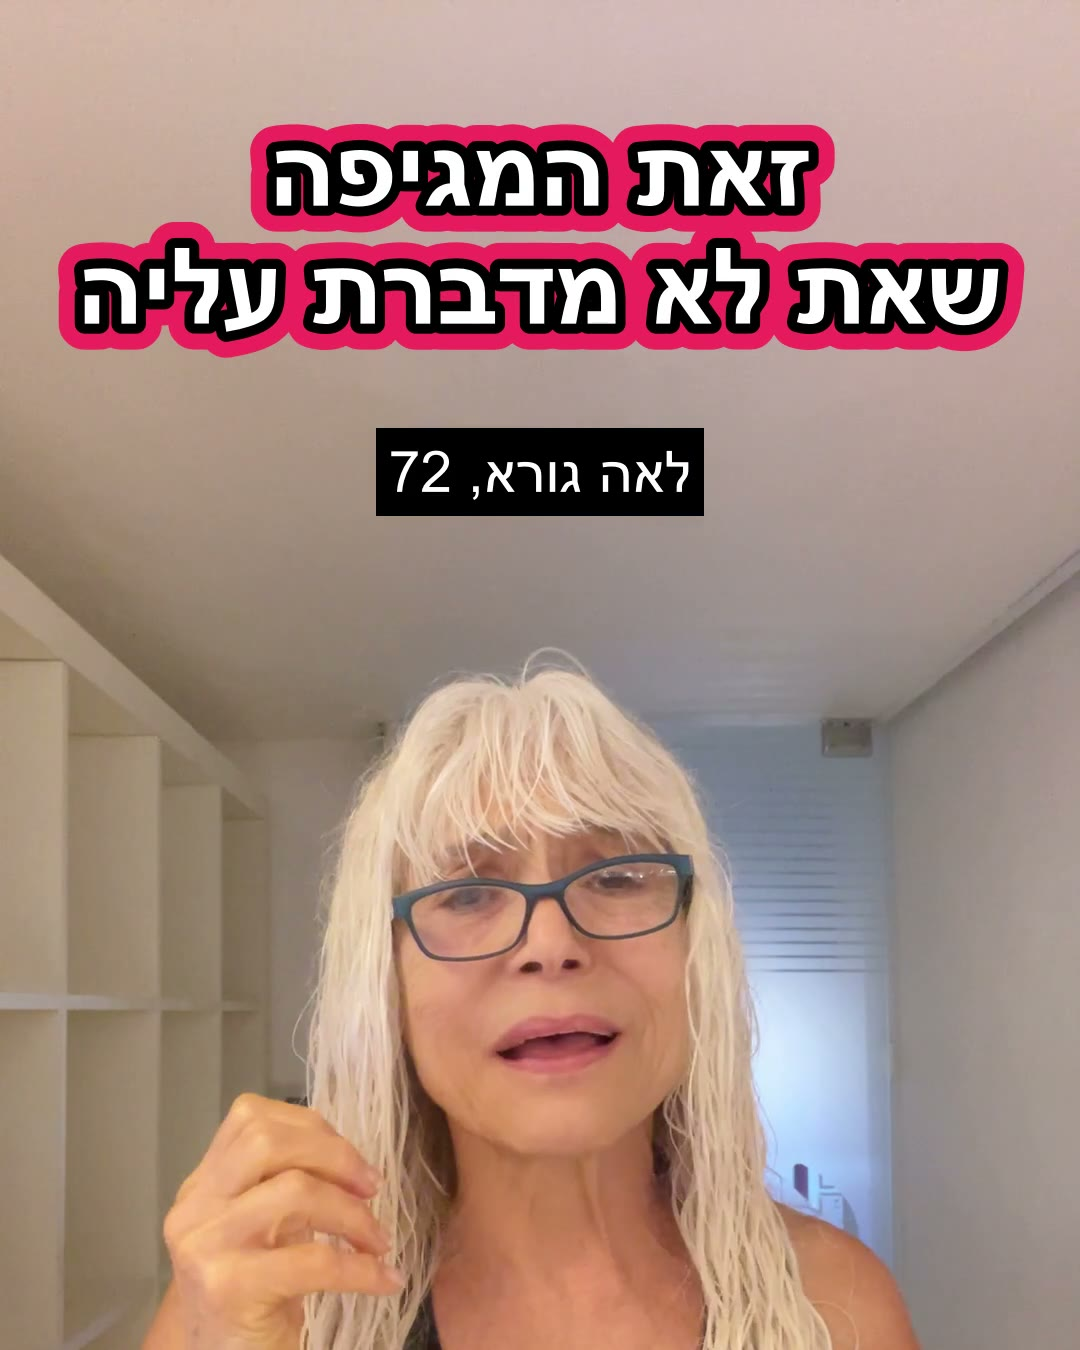
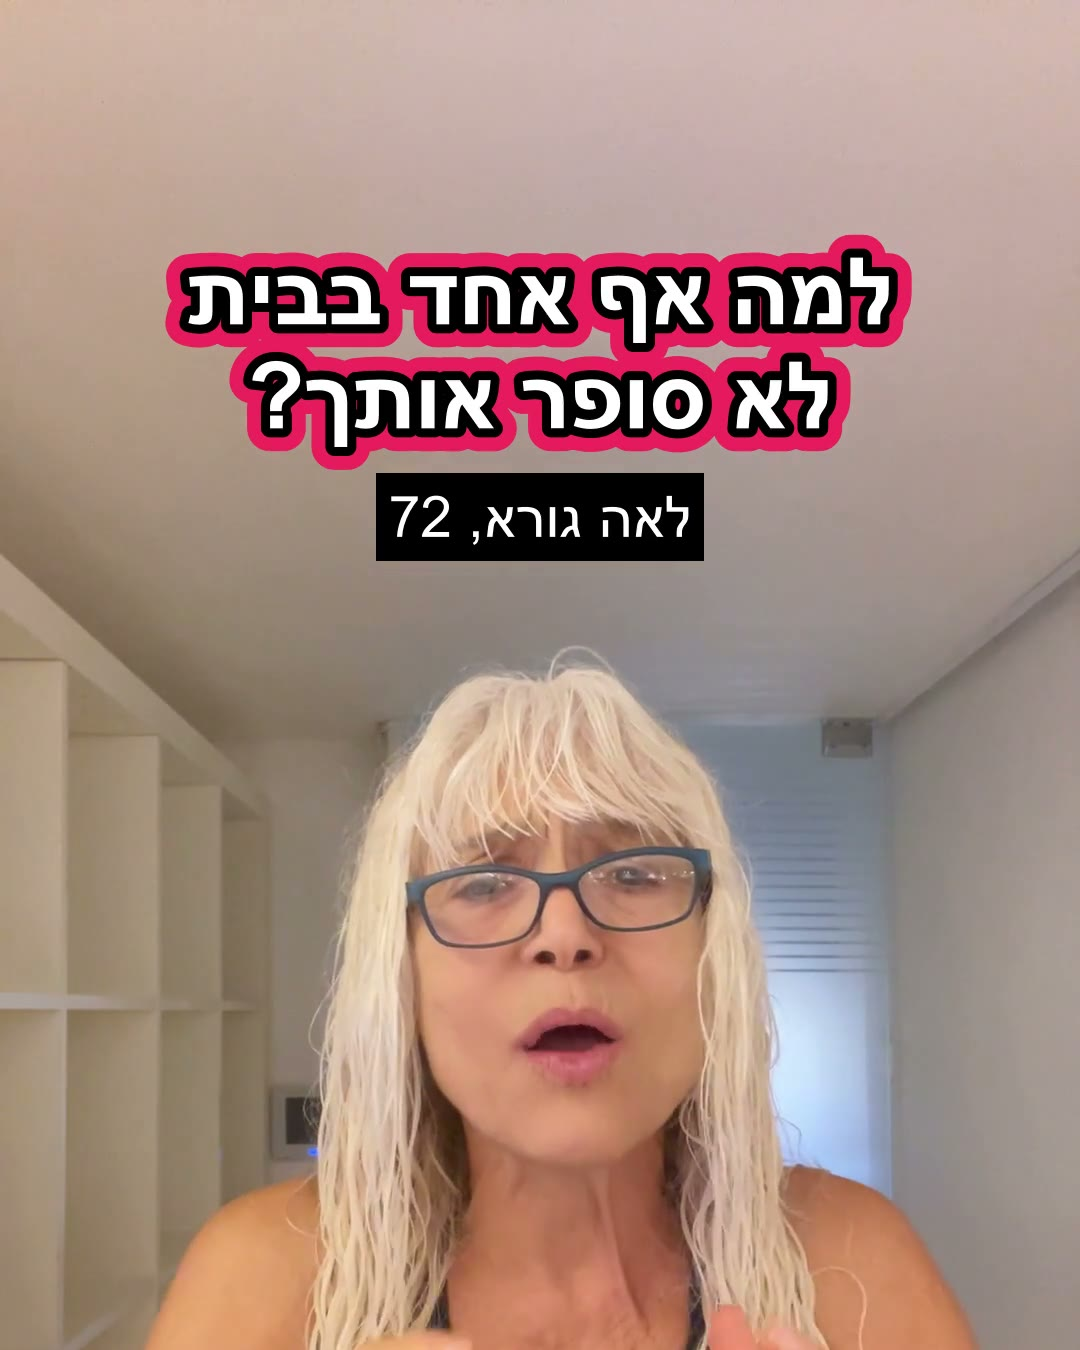
הסרת התמונה הישנה 'זאת המגיפה' מתצוגת הקישור לדף הסדנה ומכפתור הביו (במקומה: הכותרת 'למה אף אחד בבית לא סופר אותך?') - לאה 19.10

diff --git a/today.html b/today.html
@@ -18,7 +18,7 @@ if (location.search.indexOf('_scan=1') === -1) {
 }
 </script>
 </head><body><div class="w">
-<a class="c k" href="https://guralea.com/workshop.html?t=gvulot"><img src="https://guralea.com/images/workshop-video-2026-10-18-poster.jpg" alt=""><div class="t">הסדנה "הגיל הוא לא הסיפור" מתחילה ב-26.11<span>פרטים והרשמה לסדנה</span></div></a>
+<a class="c k" href="https://guralea.com/workshop.html?t=gvulot"><img src="https://guralea.com/images/workshop-video-2026-10-18-poster.jpg?v=2" alt=""><div class="t">הסדנה "הגיל הוא לא הסיפור" מתחילה ב-26.11<span>פרטים והרשמה לסדנה</span></div></a>
 <div id="list" style="display:contents"></div></div>
 <script>
 const DAYS={"2026-10-03":[{"kind":"hagil","title":"איך אור הבוקר עוזר לישון טוב יותר בלילה?","url":"https://guralea.com/blog-post-60.html","img":"https://guralea.com/images/blog-tips/60-v2-ig.jpg"},{"kind":"pilates","title":"שיווי משקל וחשש מנפילה: למה הזהירות מחלישה, ומה באמת מחזק","url":"https://guraleapilates.com/articles/balance/","img":"https://guralea.com/images/pilates/tip-posts/balance.jpg"}],"2026-10-04":[{"kind":"hagil","title":"איך קמים מחדש אחרי ניתוח או מחלה קשה?","url":"https://guralea.com/blog-post-58.html","img":"https://guralea.com/images/blog-tips/58-v2-ig.jpg"},{"kind":"pilates","title":"אחרי החלפת ברך או ירך: למה הרגל עדיין חלשה, ומה מחזיר לה כוח","url":"https://guraleapilates.com/articles/joint-replacement/","img":"https://guralea.com/images/pilates/tip-posts/joint-replacement.jpg"}],"2026-10-05":[{"kind":"hagil","title":"איך שגרה יומית בונה חוסן נפשי?","url":"https://guralea.com/blog-post-65.html","img":"https://guralea.com/images/blog-tips/65-v2-ig.jpg"},{"kind":"pilates","title":"כתף קפואה: איך מזיזים את היד בלי להחמיר את הכאב","url":"https://guraleapilates.com/articles/frozen-shoulder/","img":"https://guralea.com/images/pilates/tip-posts/frozen-shoulder.jpg"}],"2026-10-06":[{"kind":"hagil","title":"איך מגשימים חלום שדחיתם שנים?","url":"https://guralea.com/blog-post-64.html","img":"https://guralea.com/images/blog-tips/64-v2-ig.jpg"},{"kind":"pilates","title":"בקע דיסק: מה מרגיע את הכאב שיורד לרגל, ומה מחמיר אותו","url":"https://guraleapilates.com/articles/herniated-disc/","img":"https://guralea.com/images/pilates/tip-posts/herniated-disc.jpg"}],"2026-10-07":[{"kind":"hagil","title":"מה כדאי לאכול לפני ואחרי אימון אחרי גיל 50?","url":"https://guralea.com/blog-post-59.html","img":"https://guralea.com/images/blog-tips/59-v2-ig.jpg"},{"kind":"pilates","title":"דלקות מפרקים: למה המפרק ננעל, ומה באמת משחרר אותו","url":"https://guraleapilates.com/articles/arthritis/","img":"https://guralea.com/images/pilates/tip-posts/arthritis.jpg"}],"2026-10-08":[{"kind":"hagil","title":"איך מתחילים משהו חדש אחרי גיל 60?","url":"https://guralea.com/blog-post-57.html","img":"https://guralea.com/images/blog-tips/57-v2-ig.jpg"},{"kind":"pilates","title":"הגב מתעגל והכתפיים נופלות קדימה: איך מזדקפים שוב","url":"https://guraleapilates.com/articles/kyphosis/","img":"https://guralea.com/images/pilates/tip-posts/kyphosis.jpg"}],"2026-10-09":[{"kind":"hagil","title":"איך פעילות גופנית עוזרת להוריד לחץ דם?","url":"https://guralea.com/blog-post-56.html","img":"https://guralea.com/images/blog-tips/56-v2-ig.jpg"},{"kind":"pilates","title":"בריחת שתן בשיעול ובצחוק: למה זה קורה ומה באמת עוזר","url":"https://guraleapilates.com/articles/urinary-incontinence/","img":"https://guralea.com/images/pilates/tip-posts/urinary-incontinence.jpg"}],"2026-10-10":[{"kind":"hagil","title":"האם אפשר לבנות שריר גם אחרי גיל 70?","url":"https://guralea.com/blog-post-54.html","img":"https://guralea.com/images/blog-tips/54-v2-ig.jpg"},{"kind":"pilates","title":"\"לא זזתי שנים\": איך מתחילים פילאטיס מכשירים אחרי גיל 60","url":"https://guraleapilates.com/articles/starting-over/","img":"https://guralea.com/images/pilates/tip-posts/starting-over.jpg"}],"2026-10-11":[{"kind":"hagil","title":"למה מתעוררים מוקדם יותר עם הגיל?","url":"https://guralea.com/blog-post-53.html","img":"https://guralea.com/images/blog-tips/53-v2-ig.jpg"},{"kind":"pilates","title":"פיברומיאלגיה: איך לחזור לזוז בלי שהכאב יתלקח","url":"https://guraleapilates.com/articles/fibromyalgia/","img":"https://guralea.com/images/pilates/tip-posts/fibromyalgia.jpg"}],"2026-10-12":[{"kind":"hagil","title":"למה חשוב לאכול יותר סיבים תזונתיים אחרי גיל 50?","url":"https://guralea.com/blog-post-52.html","img":"https://guralea.com/images/blog-tips/52-v2-ig.jpg"},{"kind":"pilates","title":"עקמת: מה אפשר לשפר, ואיך מחזקים את הגב בלי להחמיר","url":"https://guraleapilates.com/articles/scoliosis/","img":"https://guralea.com/images/pilates/tip-posts/scoliosis.jpg"}],"2026-10-13":[{"kind":"hagil","title":"איך בונים שגרת ריצה בבטחה אחרי גיל 50?","url":"https://guralea.com/blog-post-51.html","img":"https://guralea.com/images/blog-tips/51-v2-ig.jpg"},{"kind":"pilates","title":"אחרי שבר: למה הגוף חלש גם כשהעצם כבר התאחתה, ומה מחזיר כוח","url":"https://guraleapilates.com/articles/fractures/","img":"https://guralea.com/images/pilates/tip-posts/fractures.jpg"}],"2026-10-14":[{"kind":"hagil","title":"מה הקשר בין דלקת כרונית בגוף לבין תחושת הזדקנות?","url":"https://guralea.com/blog-post-48.html","img":"https://guralea.com/images/blog-tips/48-v2-ig.jpg"},{"kind":"pilates","title":"אחרי פציעת ספורט: איך חוזרים לזוז בלי להיפצע שוב","url":"https://guraleapilates.com/articles/sports-injuries/","img":"https://guralea.com/images/pilates/tip-posts/sports-injuries.jpg"}],"2026-10-15":[{"kind":"hagil","title":"כמה זמן לוקח לשפר שיווי משקל אחרי גיל 50?","url":"https://guralea.com/blog-post-47.html","img":"https://guralea.com/images/blog-tips/47-v2-ig.jpg"},{"kind":"pilates","title":"סדק בעצם: למה זה כואב דווקא בהליכה, ואיך חוזרים לזוז בבטחה","url":"https://guraleapilates.com/articles/stress-fractures/","img":"https://guralea.com/images/pilates/tip-posts/stress-fractures.jpg"}],"2026-10-16":[{"kind":"hagil","title":"האם צריך להרים משקלים כבדים כדי לראות תוצאות אחרי גיל 50?","url":"https://guralea.com/blog-post-46.html","img":"https://guralea.com/images/blog-tips/46-v2-ig.jpg"},{"kind":"pilates","title":"כאבי גב תחתון: מה באמת עוזר, ומה רק מחמיר","url":"https://guraleapilates.com/articles/low-back-pain/","img":"https://guralea.com/images/pilates/tip-posts/low-back-pain.jpg"}],"2026-10-17":[{"kind":"hagil","title":"האם קפאין משפיע על השינה יותר עם הגיל?","url":"https://guralea.com/blog-post-45.html","img":"https://guralea.com/images/blog-tips/45-v2-ig.jpg"},{"kind":"pilates","title":"כאבי צוואר: למה הוא נתפס, ומה באמת עוזר לשחרר","url":"https://guraleapilates.com/articles/neck-pain/","img":"https://guralea.com/images/pilates/tip-posts/neck-pain.jpg"}],"2026-10-18":[{"kind":"hagil","title":"מה הקשר בין כפות הרגליים לשיווי המשקל?","url":"https://guralea.com/blog-post-55.html","img":"https://guralea.com/images/blog-tips/55-v2-ig.jpg"},{"kind":"pilates","title":"אוסטאופורוזיס: מה באמת מחזק את העצמות, ומה מסכן אותן","url":"https://guraleapilates.com/articles/osteoporosis/","img":"https://guralea.com/images/pilates/tip-posts/osteoporosis.jpg"}],"2026-10-19":[{"kind":"hagil","title":"מה ההבדל בין חוסן נפשי לבין להתעלם מרגשות?","url":"https://guralea.com/blog-post-50.html","img":"https://guralea.com/images/blog-tips/50-v2-ig.jpg"},{"kind":"pilates","title":"שיווי משקל וחשש מנפילה: למה הזהירות מחלישה, ומה באמת מחזק","url":"https://guraleapilates.com/articles/balance/","img":"https://guralea.com/images/pilates/tip-posts/balance.jpg"}],"2026-10-20":[{"kind":"hagil","title":"איך יודעים שהגיע הזמן לשינוי?","url":"https://guralea.com/blog-post-49.html","img":"https://guralea.com/images/blog-tips/49-v2-ig.jpg"},{"kind":"pilates","title":"אחרי החלפת ברך או ירך: למה הרגל עדיין חלשה, ומה מחזיר לה כוח","url":"https://guraleapilates.com/articles/joint-replacement/","img":"https://guralea.com/images/pilates/tip-posts/joint-replacement.jpg"}],"2026-10-21":[{"kind":"hagil","title":"האם צריך לקחת תוספי מזון אחרי גיל 50?","url":"https://guralea.com/blog-post-44.html","img":"https://guralea.com/images/blog-tips/44-v2-ig.jpg"},{"kind":"pilates","title":"כתף קפואה: איך מזיזים את היד בלי להחמיר את הכאב","url":"https://guraleapilates.com/articles/frozen-shoulder/","img":"https://guralea.com/images/pilates/tip-posts/frozen-shoulder.jpg"}],"2026-10-22":[{"kind":"hagil","title":"מה צריך לדעת לפני שמתחילים לרוץ אחרי גיל 50?","url":"https://guralea.com/blog-post-43.html","img":"https://guralea.com/images/blog-tips/43-v2-ig.jpg"},{"kind":"pilates","title":"בקע דיסק: מה מרגיע את הכאב שיורד לרגל, ומה מחמיר אותו","url":"https://guraleapilates.com/articles/herniated-disc/","img":"https://guralea.com/images/pilates/tip-posts/herniated-disc.jpg"}],"2026-10-23":[{"kind":"hagil","title":"למה היכולת לבקש עזרה היא חלק מחוסן נפשי, לא ההפך ממנו?","url":"https://guralea.com/blog-post-42.html","img":"https://guralea.com/images/blog-tips/42-v2-ig.jpg"},{"kind":"pilates","title":"דלקות מפרקים: למה המפרק ננעל, ומה באמת משחרר אותו","url":"https://guraleapilates.com/articles/arthritis/","img":"https://guralea.com/images/pilates/tip-posts/arthritis.jpg"}],"2026-10-24":[{"kind":"hagil","title":"מה עושים כשהסביבה לא מאמינה בשינוי שלכם?","url":"https://guralea.com/blog-post-41.html","img":"https://guralea.com/images/blog-tips/41-v2-ig.jpg"},{"kind":"pilates","title":"הגב מתעגל והכתפיים נופלות קדימה: איך מזדקפים שוב","url":"https://guraleapilates.com/articles/kyphosis/","img":"https://guralea.com/images/pilates/tip-posts/kyphosis.jpg"}],"2026-10-25":[{"kind":"hagil","title":"מה הקשר בין גיל המעבר לבין שינויים בגוף שמייחסים ל\"הגיל\"?","url":"https://guralea.com/blog-post-40.html","img":"https://guralea.com/images/blog-tips/40-v2-ig.jpg"},{"kind":"pilates","title":"בריחת שתן בשיעול ובצחוק: למה זה קורה ומה באמת עוזר","url":"https://guraleapilates.com/articles/urinary-incontinence/","img":"https://guralea.com/images/pilates/tip-posts/urinary-incontinence.jpg"}],"2026-10-26":[{"kind":"hagil","title":"למה היכולת לעמוד על רגל אחת אומרת עליכם יותר ממה שנדמה?","url":"https://guralea.com/blog-post-39.html","img":"https://guralea.com/images/blog-tips/39-v2-ig.jpg"},{"kind":"pilates","title":"\"לא זזתי שנים\": איך מתחילים פילאטיס מכשירים אחרי גיל 60","url":"https://guraleapilates.com/articles/starting-over/","img":"https://guralea.com/images/pilates/tip-posts/starting-over.jpg"}],"2026-10-27":[{"kind":"hagil","title":"כמה פעמים בשבוע צריך להתאמן אימוני כוח כדי לראות שינוי?","url":"https://guralea.com/blog-post-38.html","img":"https://guralea.com/images/blog-tips/38-v2-ig.jpg"},{"kind":"pilates","title":"פיברומיאלגיה: איך לחזור לזוז בלי שהכאב יתלקח","url":"https://guraleapilates.com/articles/fibromyalgia/","img":"https://guralea.com/images/pilates/tip-posts/fibromyalgia.jpg"}],"2026-10-28":[{"kind":"hagil","title":"האם אימון בשעות הערב פוגע בשינה?","url":"https://guralea.com/blog-post-37.html","img":"https://guralea.com/images/blog-tips/37-v2-ig.jpg"},{"kind":"pilates","title":"עקמת: מה אפשר לשפר, ואיך מחזקים את הגב בלי להחמיר","url":"https://guraleapilates.com/articles/scoliosis/","img":"https://guralea.com/images/pilates/tip-posts/scoliosis.jpg"}],"2026-10-29":[{"kind":"hagil","title":"האם צריך לוותר על פחמימות אחרי גיל 50?","url":"https://guralea.com/blog-post-36.html","img":"https://guralea.com/images/blog-tips/36-v2-ig.jpg"},{"kind":"pilates","title":"אחרי שבר: למה הגוף חלש גם כשהעצם כבר התאחתה, ומה מחזיר כוח","url":"https://guraleapilates.com/articles/fractures/","img":"https://guralea.com/images/pilates/tip-posts/fractures.jpg"}],"2026-10-30":[{"kind":"hagil","title":"איך מבדילים בין הפסקה נחוצה לבין ויתור?","url":"https://guralea.com/blog-post-35.html","img":"https://guralea.com/images/blog-tips/35-v2-ig.jpg"},{"kind":"pilates","title":"אחרי פציעת ספורט: איך חוזרים לזוז בלי להיפצע שוב","url":"https://guraleapilates.com/articles/sports-injuries/","img":"https://guralea.com/images/pilates/tip-posts/sports-injuries.jpg"}],"2026-10-31":[{"kind":"hagil","title":"מה עושים ביום שבו פשוט אין חשק?","url":"https://guralea.com/blog-post-34.html","img":"https://guralea.com/images/blog-tips/34-v2-ig.jpg"},{"kind":"pilates","title":"סדק בעצם: למה זה כואב דווקא בהליכה, ואיך חוזרים לזוז בבטחה","url":"https://guraleapilates.com/articles/stress-fractures/","img":"https://guralea.com/images/pilates/tip-posts/stress-fractures.jpg"}]};

diff --git a/workshop.html b/workshop.html
@@ -40,11 +40,7 @@ if (location.search.indexOf('_scan=1') === -1) {
 <meta charset="UTF-8">
 <meta name="viewport" content="width=device-width, initial-scale=1.0">
 <title>פרטים והרשמה לסדנה | הגיל הוא לא הסיפור</title>
-<!-- 18.10.2026 (Leah): the Facebook link preview shows a frame from her video (no text on it). -->
 <meta property="og:title" content="פרטים והרשמה לסדנה | הגיל הוא לא הסיפור">
-<meta property="og:image" content="https://guralea.com/images/workshop-gvulot-share.jpg">
-<meta property="og:image:width" content="1080">
-<meta property="og:image:height" content="1080">
 <link rel="icon" href="images/favicon.svg" type="image/svg+xml">
 <link rel="preconnect" href="https://fonts.googleapis.com">
 <link rel="preconnect" href="https://fonts.gstatic.com" crossorigin>
